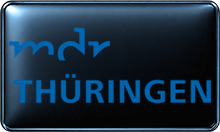
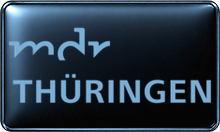
Repair four BLACK variants (batch 020)

Changed region(s): [[0.0545, 0.5455, 0.9818, 0.7879], [0.0273, 0.1818, 0.5182, 0.4848]]

diff --git a/reports/black-white-qc-2026-10-09/batch-020/checkpoint.md b/reports/black-white-qc-2026-10-09/batch-020/checkpoint.md
@@ -1,0 +1,11 @@
+# Batch 020 checkpoint
+
+- Remote branch HEAD before push: `2280d23b701e16081450be657c891bd2da3247bb`
+- Observed local HEAD before batch: `719dd59ec5ef09a28503d21d3f21bad011de442a`
+- Scope: review sheets 048–053, review IDs 4701–5300. Six contact sheets were generated from the gzip index and current outputs, then visually inspected: 6 sheets / 600 variants.
+- Corrected and visually compared: 4 BLACK PNGs. Localized blue-hue masks lifted only dark low-luminance artwork; bright cyan/gradient details and unrelated artwork were preserved.
+- Output validation: 4/4 valid PNG/RGBA 220×132; original outputs matched the pinned renderer before correction. Sources and MASTER templates unchanged.
+- Next assigned review range: sheets 060–065, IDs 5901–6500 (batch-023).
+- Four repair outputs are ready for incremental push.
+
+Exact paths and before/after hashes: `repair-manifest.csv`. Generated sheets: `review-048.jpg`–`review-053.jpg`. Visual comparison: `batch-020-before-after.jpg`.

diff --git a/reports/black-white-qc-2026-10-09/batch-019/checkpoint.md b/reports/black-white-qc-2026-10-09/batch-019/checkpoint.md
@@ -8,3 +8,5 @@
 - Next review ID: 2101. Four outputs are ready for incremental push.
 
 Exact paths and before/after hashes: `repair-manifest.csv`. QA comparison: `batch-019-before-after.jpg`.
+
+- Pushed repair commit: `2280d23b701e16081450be657c891bd2da3247bb`.
